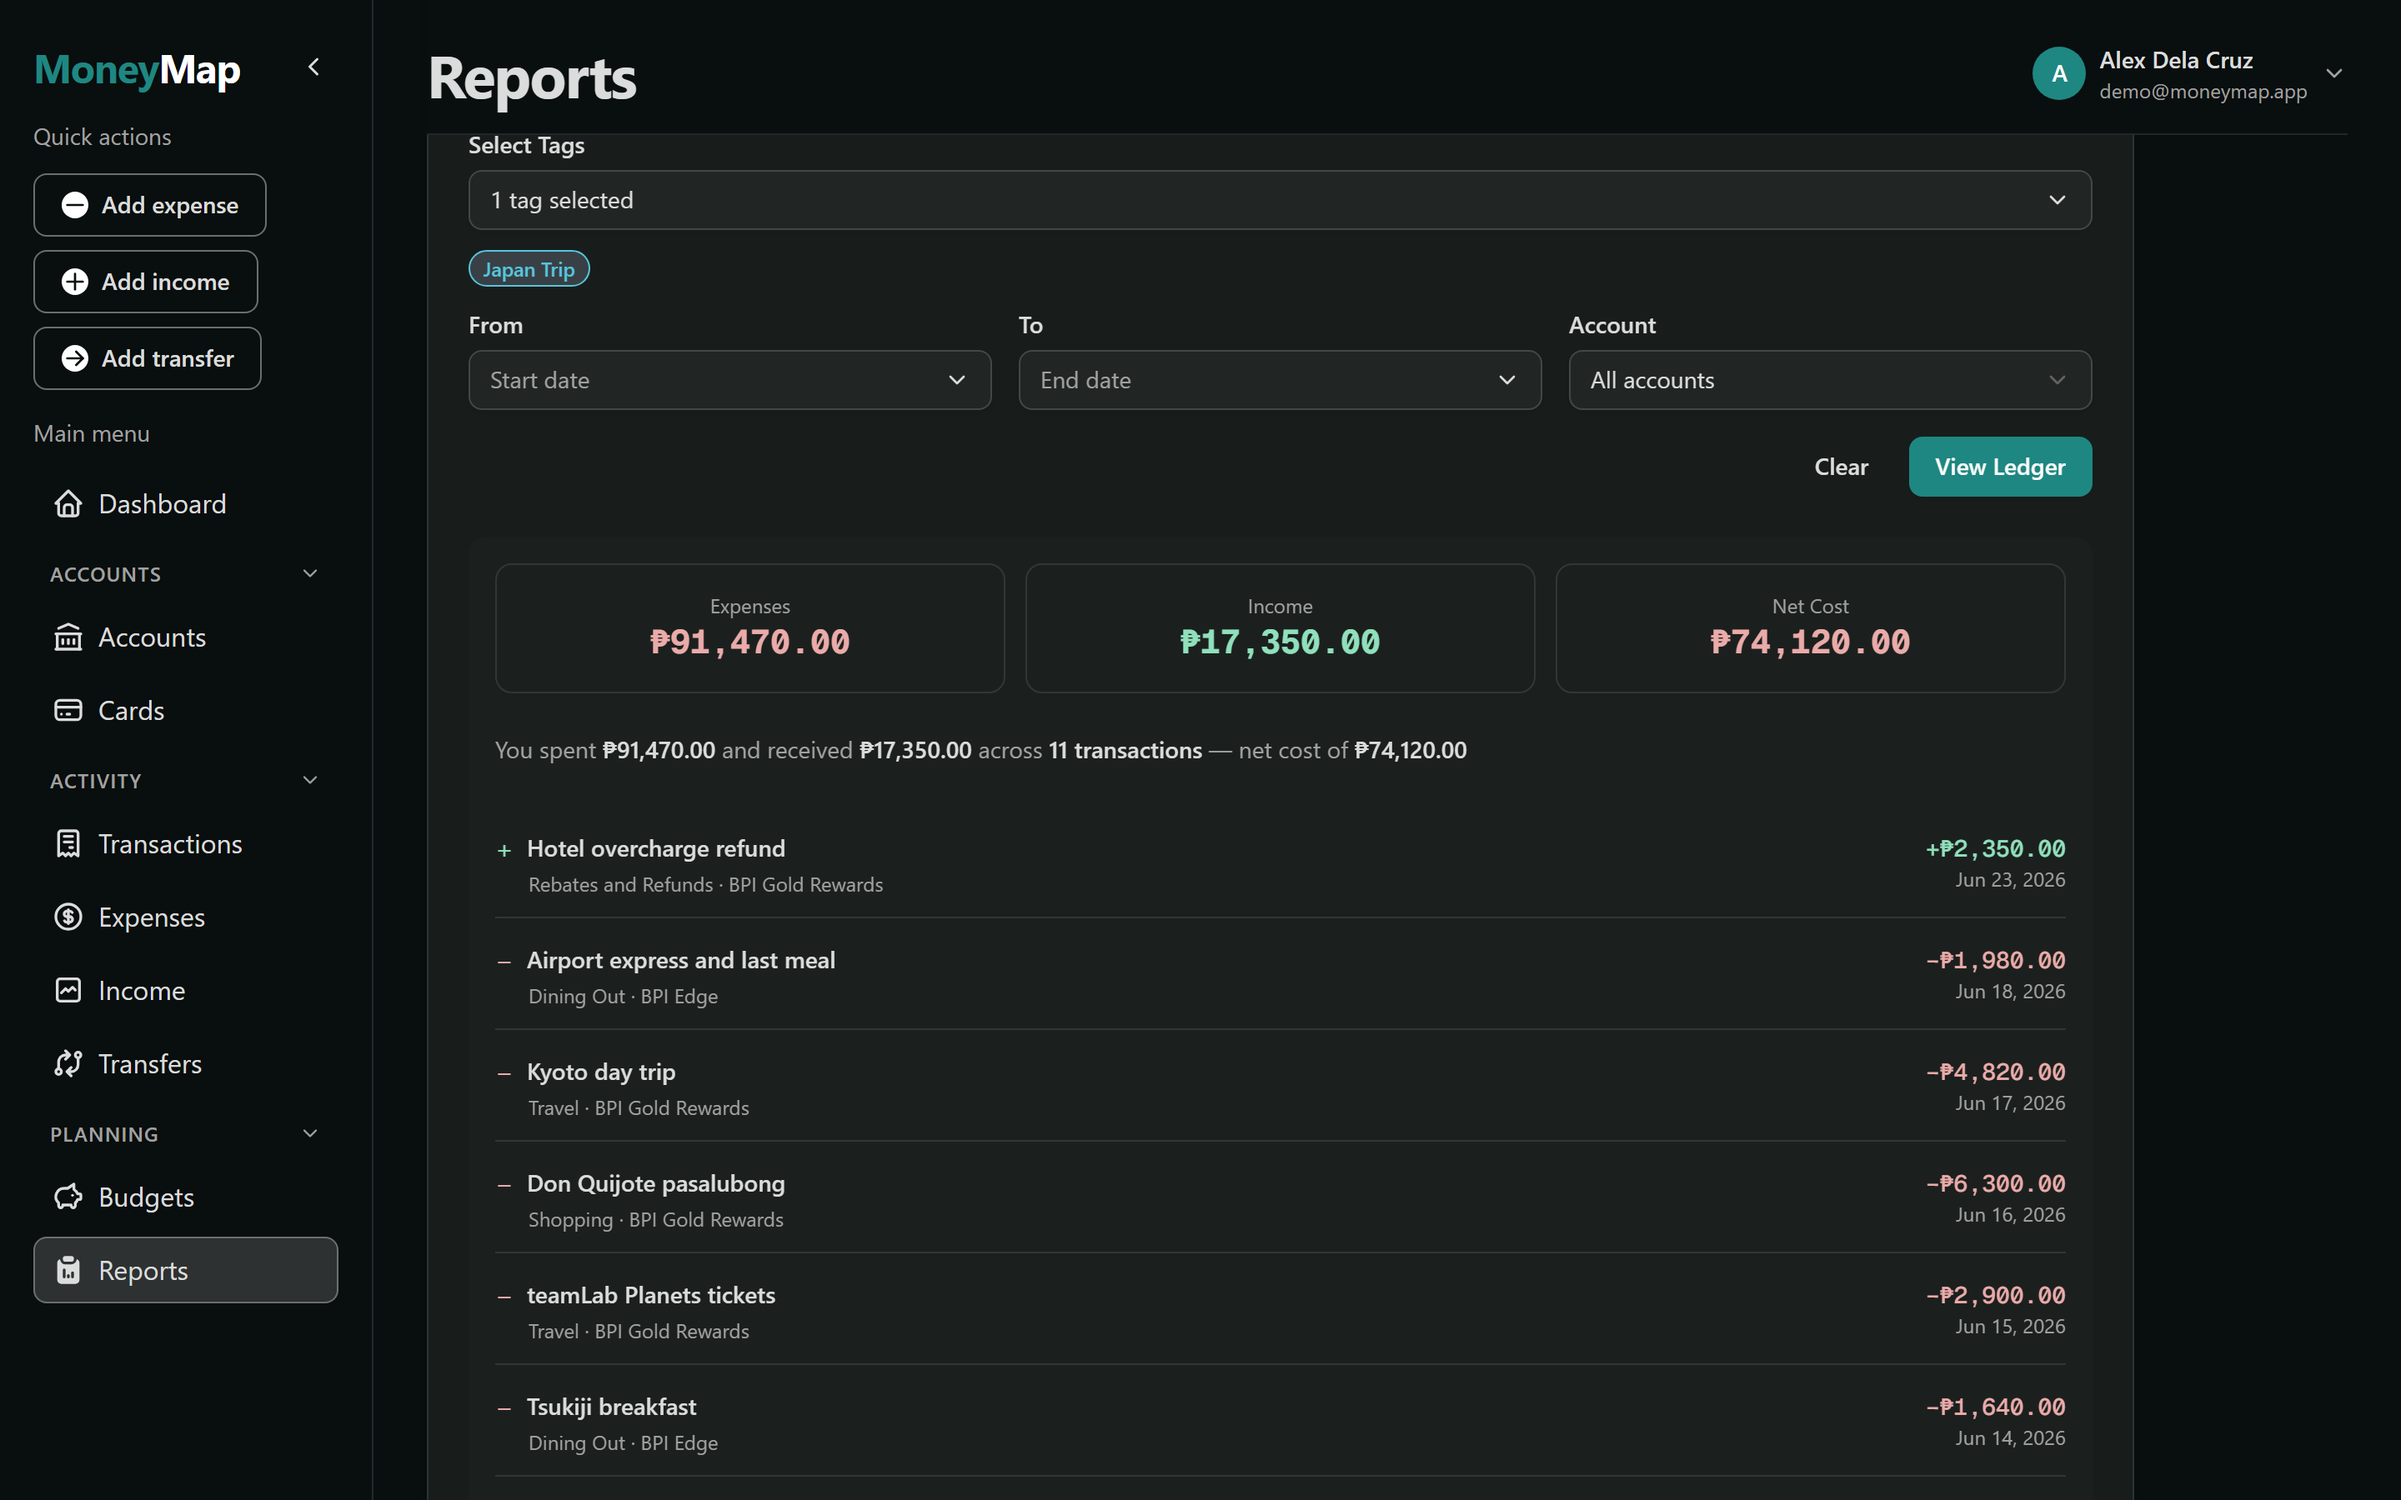
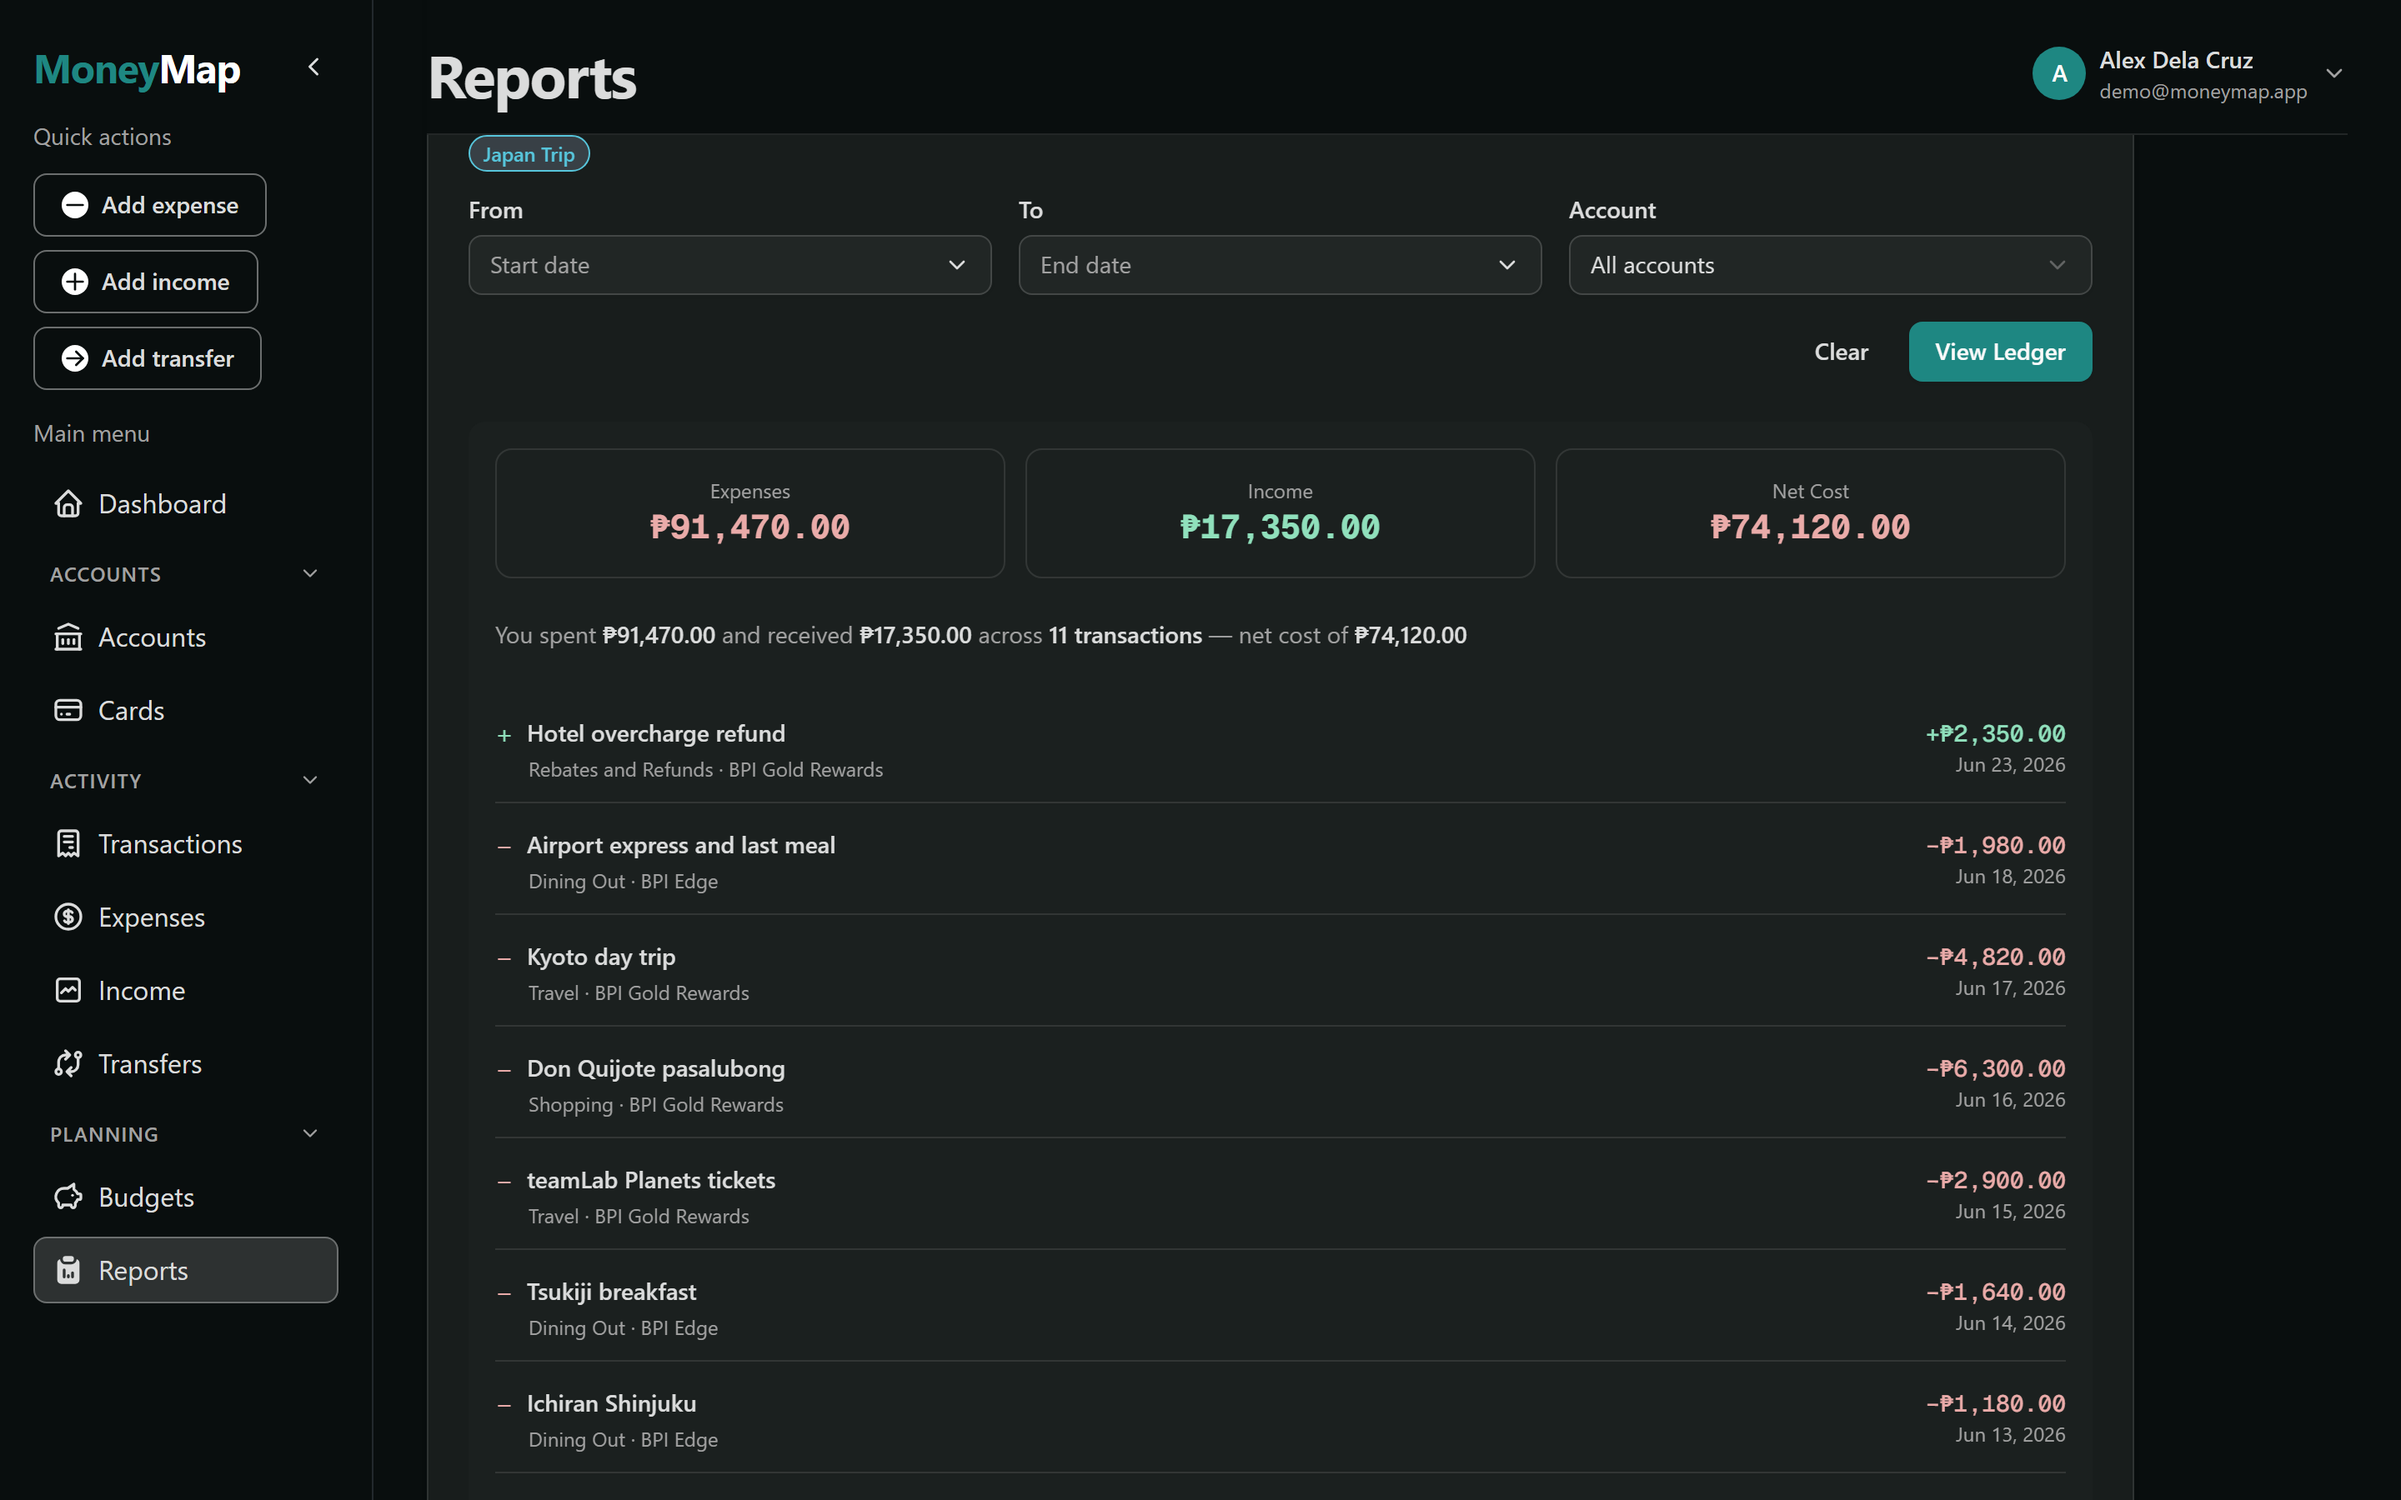
fix(demo): bring the Japan Trip chip into frame on the ledger capture
The event ledger capture was the one screenshot the user rejected
during design review: it showed the Expenses/Income/Net Cost totals
and transaction rows, but not the selected Japan Trip chip, so the
section copy ("Tag anything ... and get one total") promised a
tagged total while the image showed an untagged one.

- scripts/demo/screenshots.ts: prepareEventLedger now locates the
  selected tag chip and the "Hotel overcharge refund" row (the row
  that makes "minus whatever came back" literally true) and scrolls
  so both are in frame together with the summary tiles, instead of
  centering on the results sentence alone.
- Scrolling uses `el.scrollIntoView`, not `window.scrollBy` - the
  app's scroll container is a nested div (`body` is
  `overflow-hidden` in globals.css), so a window-level scroll was a
  silent no-op.
- The scroll target additionally clears PageHeader's
  `sticky top-0 z-10 bg-background` title bar, which visually
  overlays anything scrolled to y=0 even though that position is
  mathematically "in viewport".
- The chip/refund check re-scrolls on every polling iteration rather
  than once, since the net worth and breakdown charts elsewhere on
  /reports are still settling geometry at this point and a height
  change above the ledger card silently invalidates a one-shot
  scroll.
- Added an `--only=<slug>` capture filter so a single surface can be
  iterated on without re-running the full 9-surface x 2-device pass.
[…]

diff --git a/scripts/demo/screenshots.ts b/scripts/demo/screenshots.ts
@@ -246,6 +246,12 @@ async function prepareEventLedger(page: Page, base: string): Promise<void> {
   await goto(page, `${base}/reports`);
   const ledgerTitle = page.locator('[data-slot="card-title"]', { hasText: "Event Ledger" });
   await ledgerTitle.waitFor({ state: "visible", timeout: 30000 });
+
+  // The net worth card and breakdown charts above this one are still interpolating
+  // their SVG geometry at this point, which changes their rendered height and shifts
+  // everything below - settle those first so nothing moves out from under the scroll
+  // position this function is about to compute further down.
+  await waitForVisualSettle(page);
   await ledgerTitle.scrollIntoViewIfNeeded();
 
   // The Transaction Analyzer directly above this card has its own "Select tags"
@@ -284,10 +290,70 @@ async function prepareEventLedger(page: Page, base: string): Promise<void> {
     20000,
   );
 
-  // Center the results sentence rather than re-scrolling to the card title: the title
-  // sits above the tag picker and the summary cards, so scrolling back to it would push
-  // the actual merged results - the entire point of this capture - below the fold.
-  await summarySentence.evaluate((el) => el.scrollIntoView({ block: "center" }));
+  // The section copy promises a TAGGED total ("Tag anything ... and get one total"), so
+  // the selected "Japan Trip" chip must be in frame together with the totals - a capture
+  // of the totals alone shows an untagged total, which is what got this capture rejected
+  // the first time round. The chip renders at the top of the tag field, well above the
+  // summary tiles, so pin it to the top edge of the viewport (rather than centering on
+  // the results) and let the tiles and the first rows fall into the remaining space below.
+  const tagChip = ledgerCard
+    .locator(".flex.flex-wrap.gap-1")
+    .getByText("Japan Trip", { exact: true });
+  await tagChip.waitFor({ state: "visible", timeout: 10000 });
+
+  // The "Hotel overcharge refund" row is what makes "minus whatever came back" literally
+  // true, so it must stay in frame too, not just any transaction row.
+  const refundRow = ledgerCard.getByText("Hotel overcharge refund", { exact: false });
+  await refundRow.waitFor({ state: "visible", timeout: 10000 });
+
+  // Re-scrolls on every check rather than once: other widgets on /reports (the net
+  // worth chart, breakdown charts) are still settling geometry at this point, and a
+  // height change above the ledger card shifts everything below it, silently
+  // invalidating a one-shot scroll. Re-issuing the scroll each iteration converges once
+  // the page actually stops moving, instead of racing it.
+  //
+  // `el.scrollIntoView` (not `window.scrollBy`) because the app's own scroll container
+  // is a nested div, not the window - `body` is `overflow-hidden` in globals.css, so a
+  // window-level scroll is a silent no-op here. `scrollIntoView({block:"start"})` alone
+  // puts the chip at scroll-position 0, which is mathematically "in viewport" but is
+  // actually hidden UNDER `PageHeader`'s `sticky top-0 z-10 bg-background` title bar,
+  // which occupies that same visual region and paints over it - so nudge the scroll
+  // back up by the sticky header's own height afterward, revealing the chip below it.
+  await assertEventually(
+    page,
+    "the Japan Trip chip and the refund row were not both in frame (and clear of the sticky page header) after scrolling",
+    async () => {
+      const headerHeight = await tagChip.evaluate((el) => {
+        el.scrollIntoView({ block: "start" });
+        const header = document.querySelector<HTMLElement>(".sticky.top-0.z-10");
+        const height = header?.getBoundingClientRect().height ?? 0;
+        let ancestor: HTMLElement | null = el.parentElement;
+        while (ancestor) {
+          const style = getComputedStyle(ancestor);
+          if (/(auto|scroll)/.test(style.overflowY) && ancestor.scrollHeight > ancestor.clientHeight) {
+            ancestor.scrollTop -= height;
+            break;
+          }
+          ancestor = ancestor.parentElement;
+        }
+        return height;
+      });
+      const viewport = page.viewportSize();
+      const chipBox = await tagChip.boundingBox();
+      const refundBox = await refundRow.boundingBox();
+      if (!viewport || !chipBox || !refundBox) return false;
+      // The chip must clear the sticky header, not merely have a non-negative y -
+      // y >= 0 alone would also be true while it sits underneath the header, painted over.
+      const inView = (box: { y: number; height: number }, minY = 0) =>
+        box.y >= minY && box.y + box.height <= viewport.height;
+      return inView(chipBox, headerHeight) && inView(refundBox);
+    },
+  );
+
+  // Confirm the page has genuinely stopped moving before returning control to the
+  // capture loop, so the settle wait it runs next has nothing left to invalidate this
+  // scroll position.
+  await waitForVisualSettle(page);
 }
 
 /** The breakdown charts and annual summary, scrolled past net worth. */
@@ -306,7 +372,7 @@ async function prepareReports(page: Page, base: string): Promise<void> {
   await breakdownHeading.evaluate((el) => el.scrollIntoView({ block: "start" }));
 }
 
-const SURFACES: Surface[] = [
+const ALL_SURFACES: Surface[] = [
   { slug: "net-worth", prepare: prepareNetWorth },
   { slug: "calendar", prepare: prepareCalendar },
   { slug: "card-detail", prepare: prepareCardDetail },
@@ -317,6 +383,21 @@ const SURFACES: Surface[] = [
   { slug: "budgets", prepare: navOnly("/budgets", "main") },
   { slug: "accounts", prepare: navOnly("/accounts", "main") },
 ];
+
+/** `--only=slug1,slug2` restricts capture to a subset, for iterating on one surface's
+ *  `prepare` step without re-running the full ~9-surface x 2-device pass every time. */
+function selectedSurfaces(): Surface[] {
+  const flag = process.argv.find((a) => a.startsWith("--only="));
+  if (!flag) return ALL_SURFACES;
+  const slugs = new Set(flag.slice("--only=".length).split(","));
+  const selected = ALL_SURFACES.filter((s) => slugs.has(s.slug));
+  if (selected.length === 0) {
+    throw new Error(`--only= matched no surface (have: ${ALL_SURFACES.map((s) => s.slug).join(", ")})`);
+  }
+  return selected;
+}
+
+const SURFACES: Surface[] = selectedSurfaces();
 
 async function captureDevice(
   browser: import("@playwright/test").Browser,
